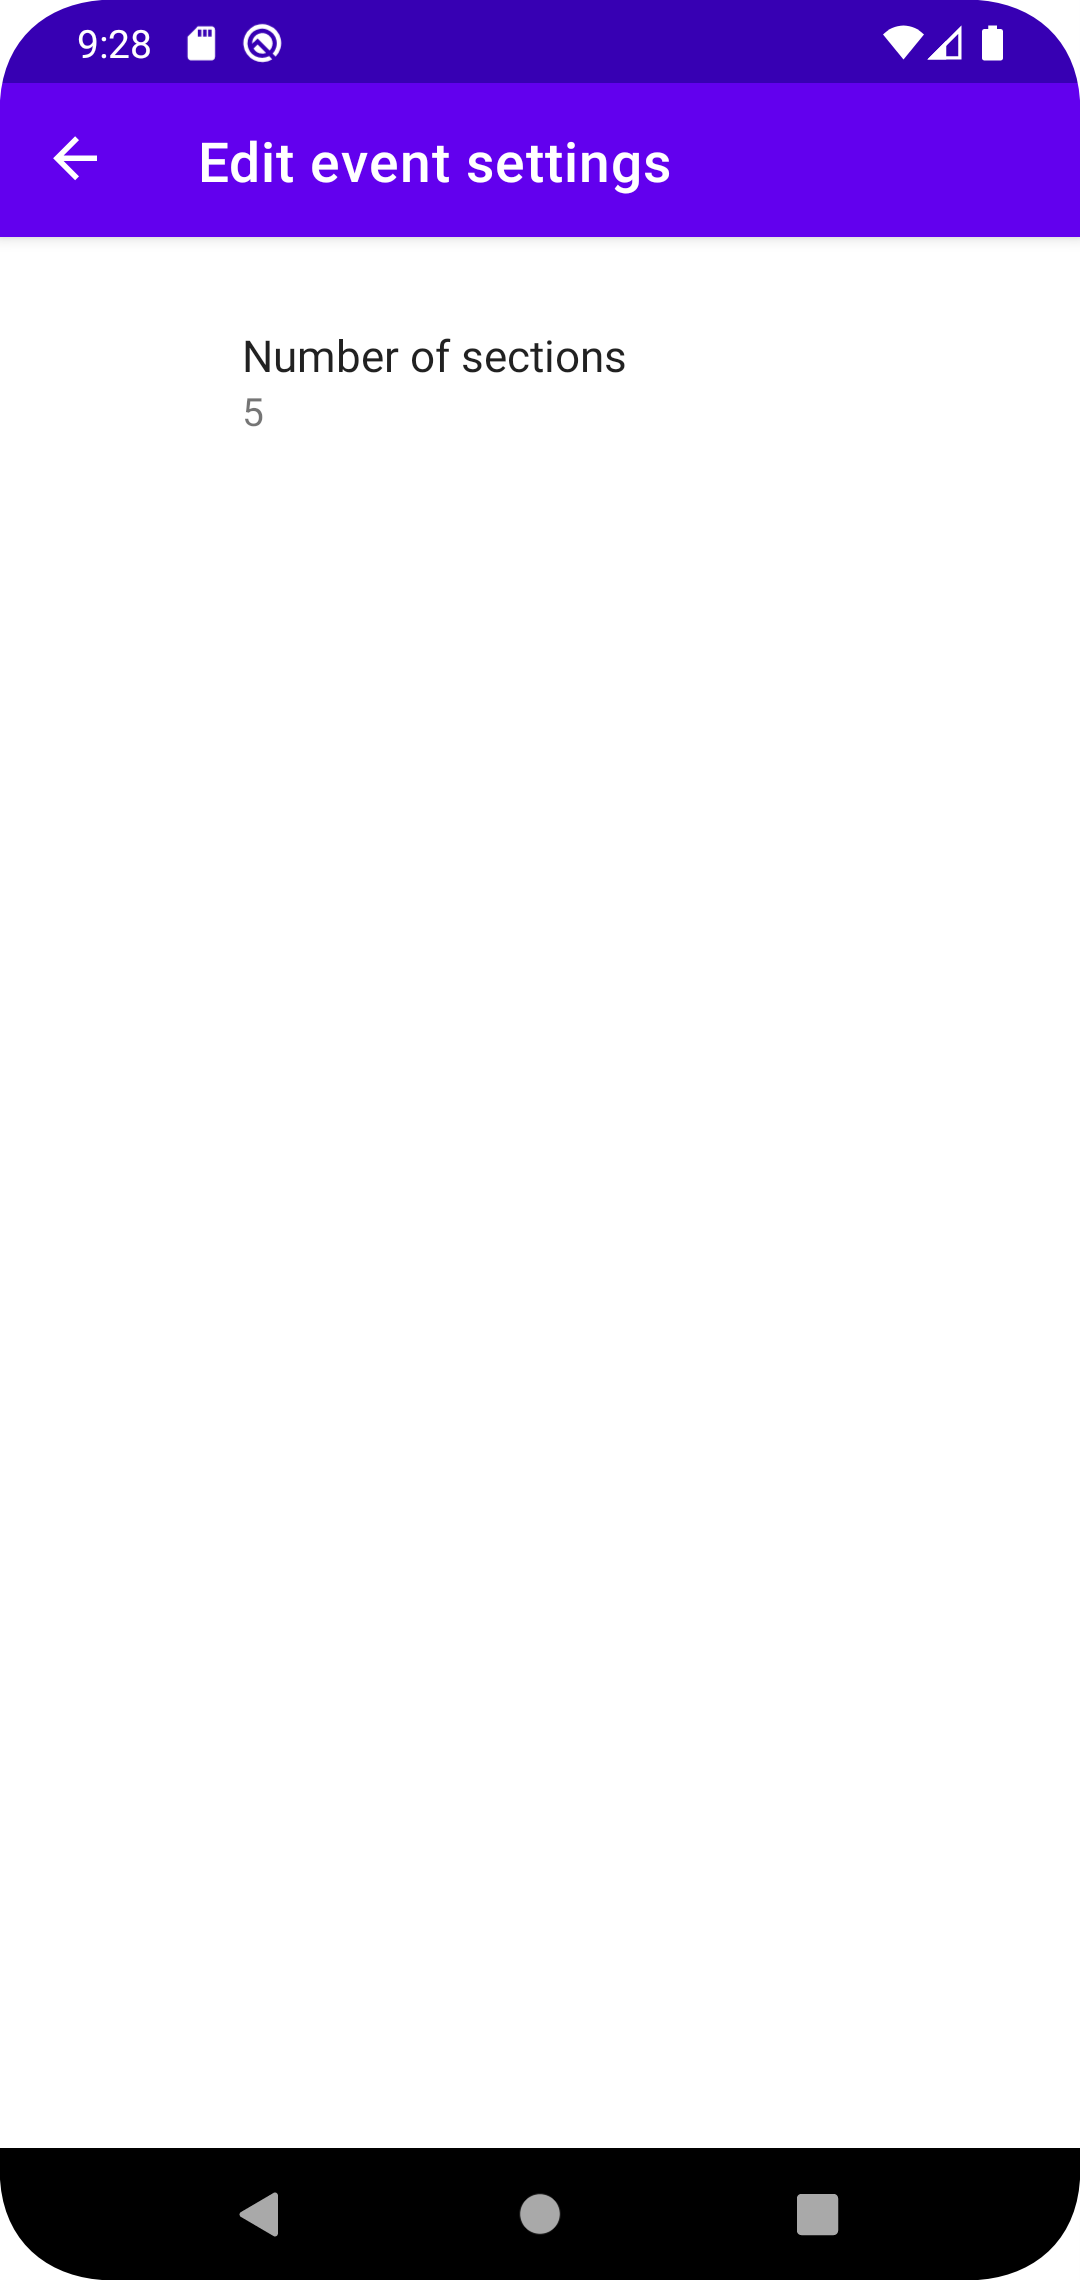
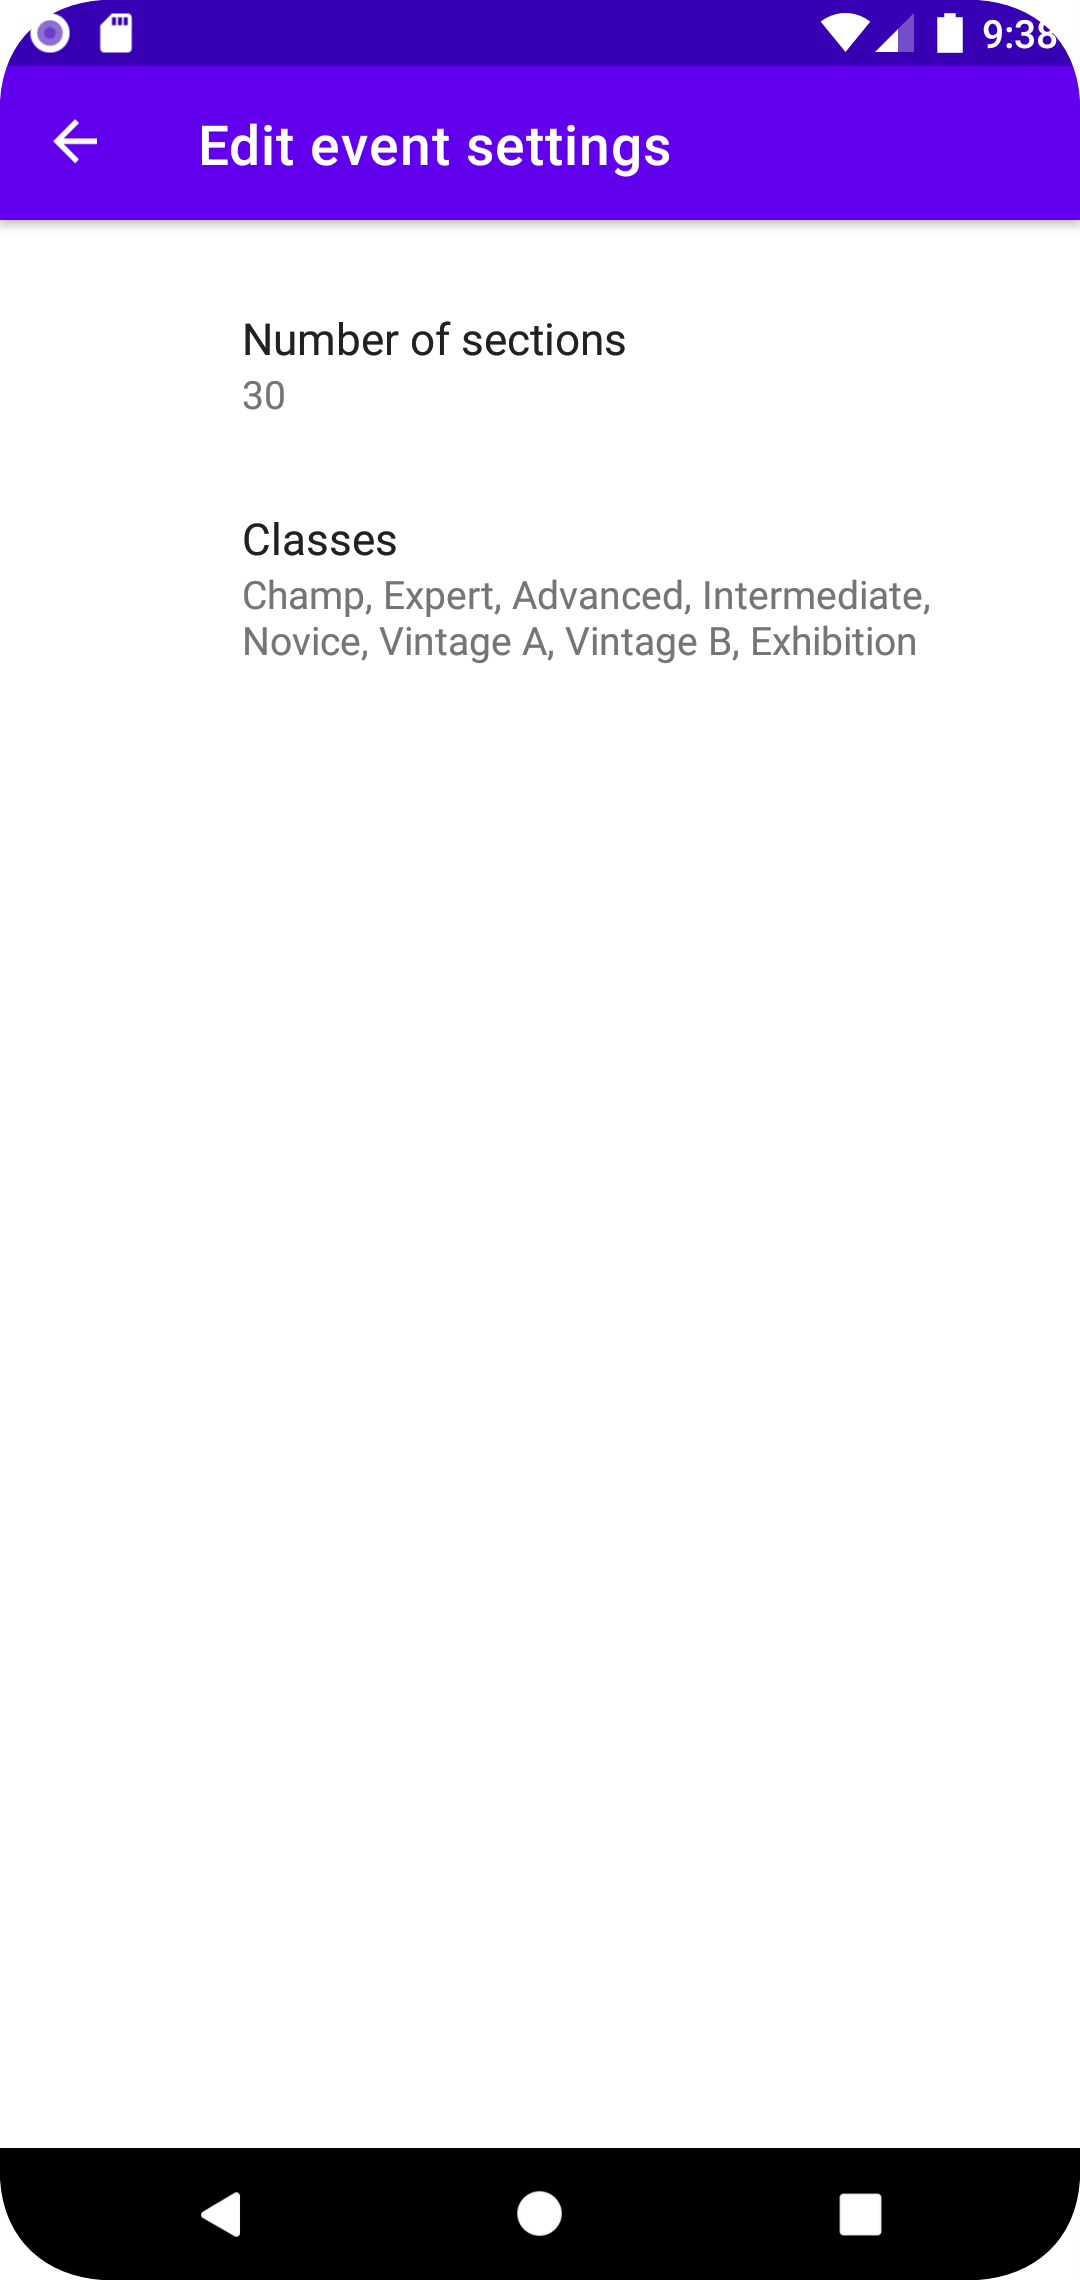
Update docs to cover class configuration

diff --git a/docs/index.md b/docs/index.md
@@ -20,29 +20,12 @@ It's free and released under GPLv3 license.
 6. Export scores to generate final score sheets
 
 ### Configure event
-**Note**
-This feature is only partially implemented.
-
-You can configure total number of sections in the event via Settings menu available from the main screen.
+You can configure total number of sections in the event and classes/lines via Settings menu available from the main screen.
 It's best to configure it before you start entering riders scores since score card is initialized upon first score entry.
 
 <img src="img/settings.png" width="300" alt="Settings screen" />
 
-Application is currently hardcoded to support the following classes:
-* Pro+
-* Pro
-* Champ
-* Expert
-* Advanced
-* Clubman
-* Intermediate
-* Sportsman
-* Novice
-* Twinshock
-* Vintage A
-* Vintage B
-* Exhibition
-* Open
+When entering classes keep the order you want them to be sorted on the leaderboard and separate with comma. 
 
 ### Import rider list
 Assuming you have rider list exported from your registration system. 
